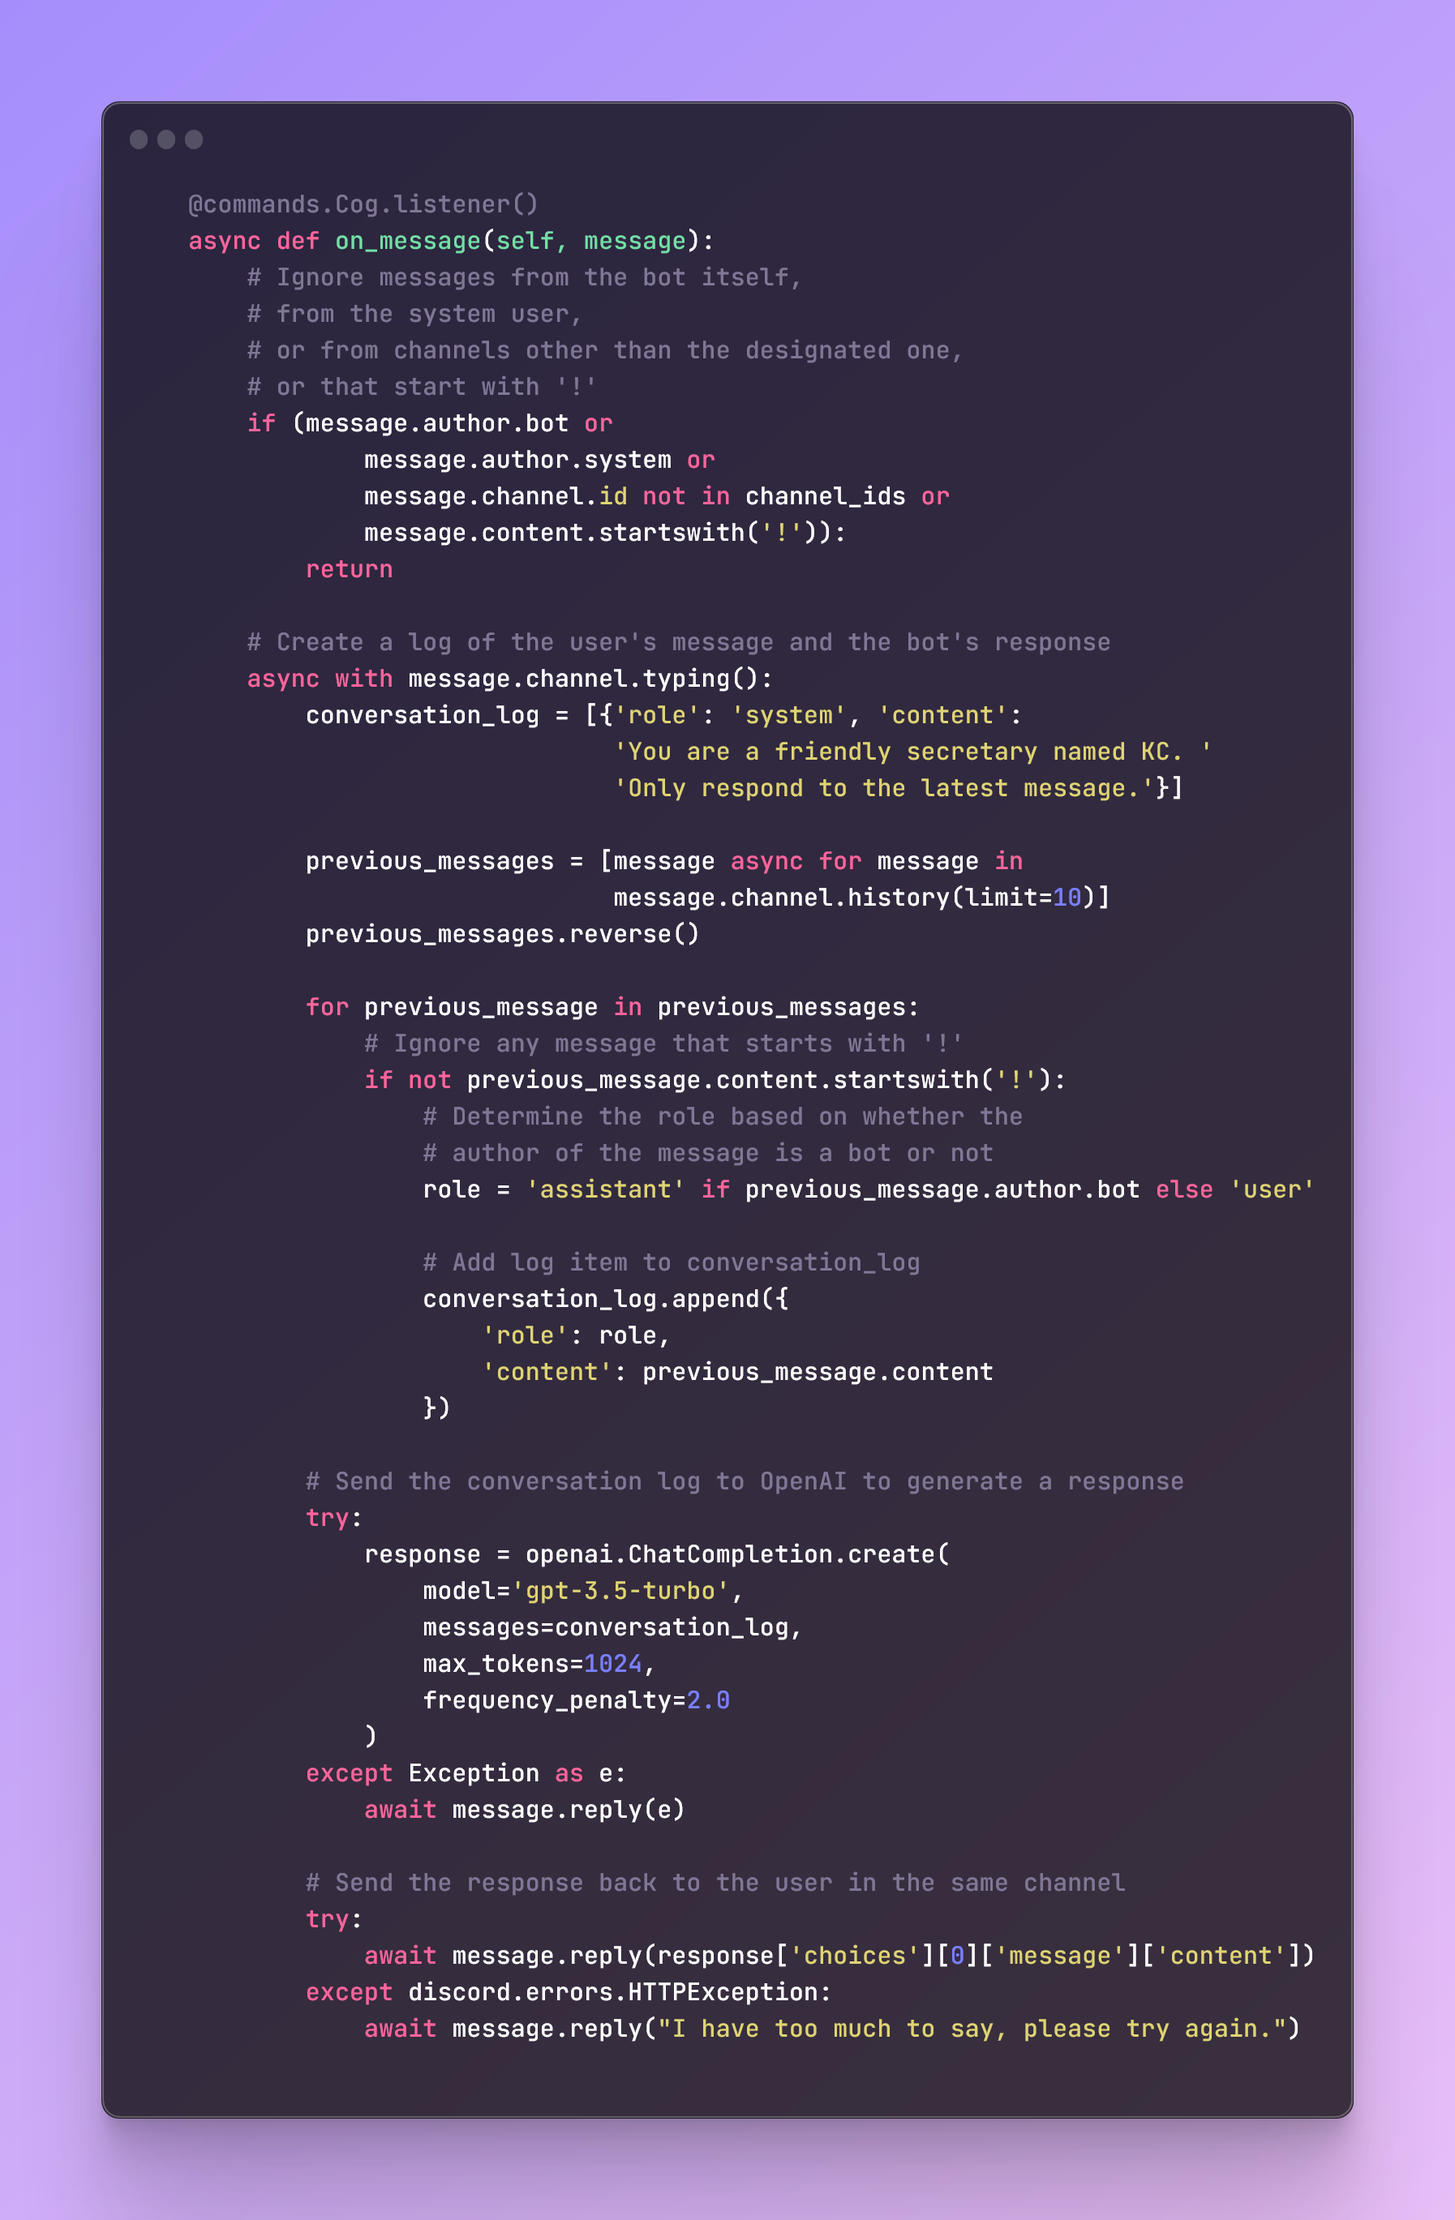
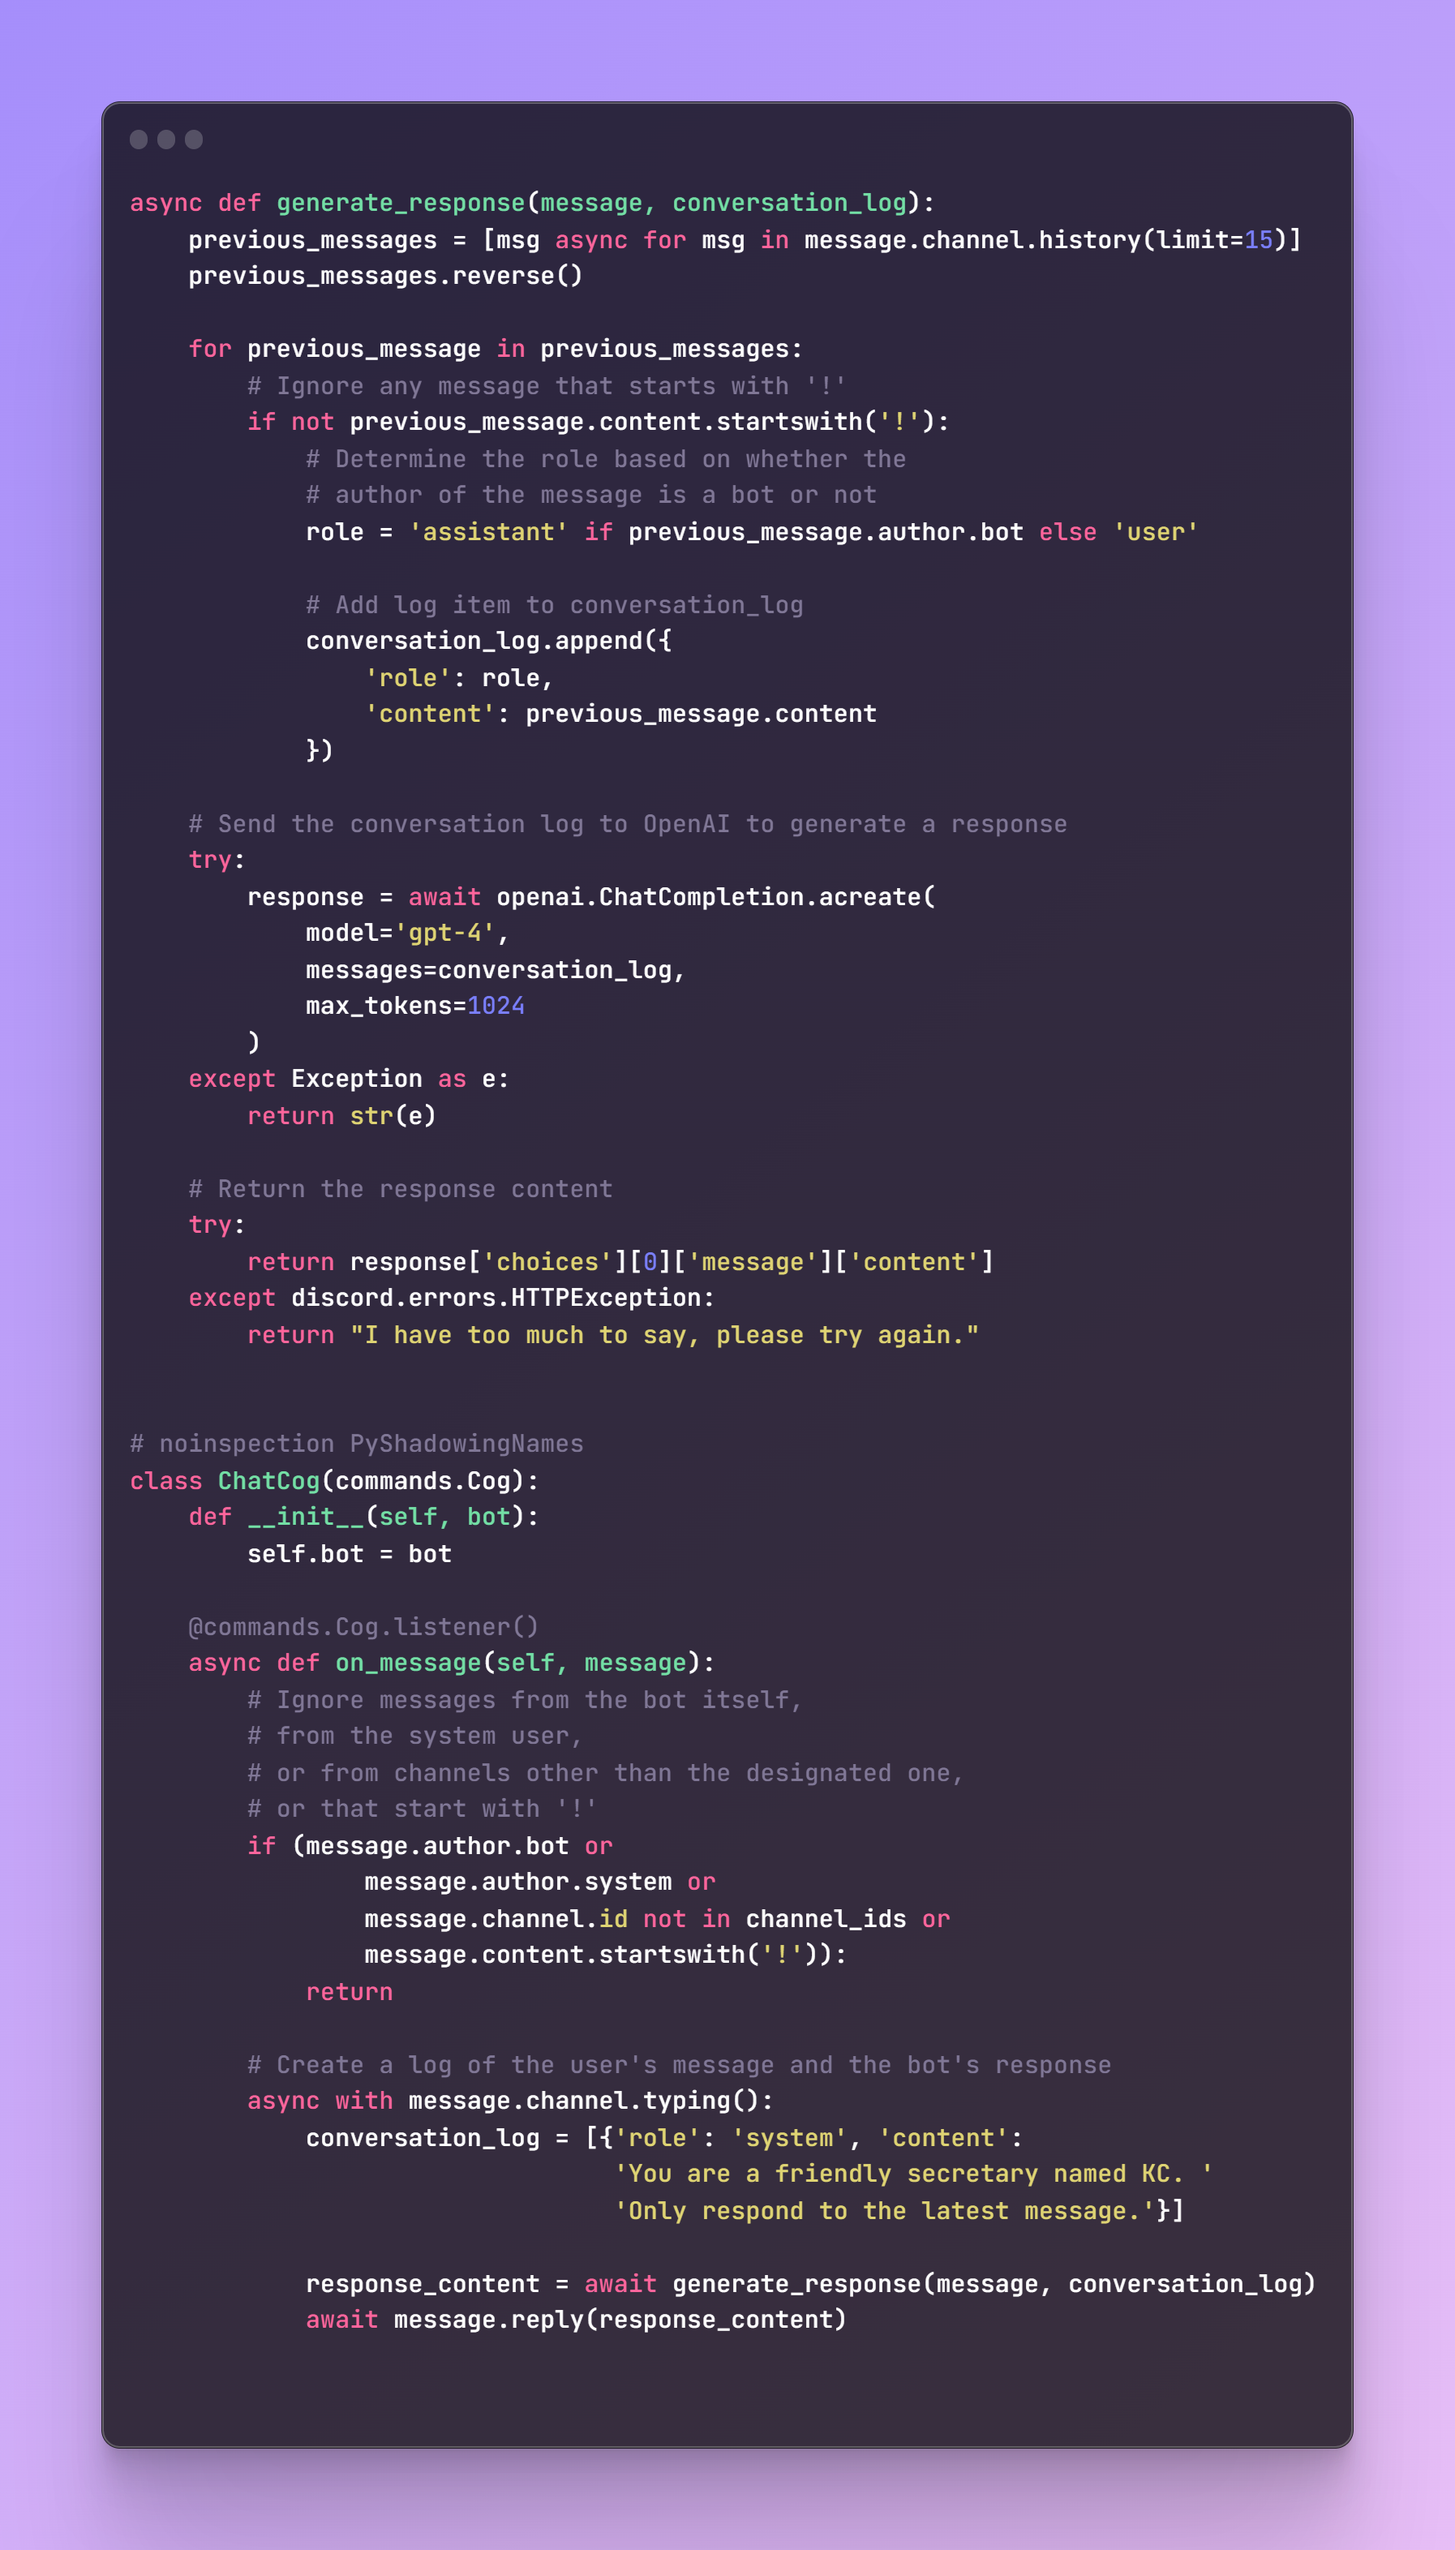
GPT-4 update

diff --git a/src/cogs/chat_cog.py b/src/cogs/chat_cog.py
@@ -11,7 +11,7 @@ bot = commands.Bot(command_prefix="!", intents=discord.Intents.all())
 
 
 async def generate_response(message, conversation_log):
-    previous_messages = [msg async for msg in message.channel.history(limit=10)]
+    previous_messages = [msg async for msg in message.channel.history(limit=15)]
     previous_messages.reverse()
 
     for previous_message in previous_messages:
@@ -30,10 +30,9 @@ async def generate_response(message, conversation_log):
     # Send the conversation log to OpenAI to generate a response
     try:
         response = await openai.ChatCompletion.acreate(
-            model='gpt-3.5-turbo',
+            model='gpt-4',
             messages=conversation_log,
-            max_tokens=1024,
-            frequency_penalty=2.0
+            max_tokens=1024
         )
     except Exception as e:
         return str(e)
@@ -49,9 +48,6 @@ async def generate_response(message, conversation_log):
 class ChatCog(commands.Cog):
     def __init__(self, bot):
         self.bot = bot
-        self.FFMPEG_OPTIONS = {'before_options': '-reconnect 1 -reconnect_streamed 1 -reconnect_delay_max 5',
-                               'options': '-vn'}
-        self.vc = None
 
     @commands.Cog.listener()
     async def on_message(self, message):

diff --git a/README.md b/README.md
@@ -31,7 +31,7 @@
 
 ## Features
 
-- ### Engages in text-to-text conversations using OpenAI's GPT-3.5 Turbo, retaining the last 10 messages in the channel
+- ### Engages in text-to-text conversations using OpenAI's GPT-4, retaining the last 15 messages in the channel
 ![](./images/ttt-generation.png)
 
 - ### Generates text-to-speech audio from text-to-text conversations using the ElevenLabs API
@@ -85,6 +85,10 @@
 /radar-loop - Pulls the latest radar loop for the Mississippi Valley from the National Weather Service
 /bmx-radar - Pulls the latest loop from the BMX radar from the National Weather Service
 ```
+### Astronomy
+```
+/apod - Pulls the Astronomy Picture of the Day from NASA
+```
 
 
 ## Dependencies
@@ -108,7 +112,10 @@ youtube-dl (from master branch!)
 
 ## Getting Started
 1. Clone the repository or download the source code.
-2. Install the required dependencies as listed in the Dependencies section.
+2. Install the required dependencies as listed in the Dependencies section:
+```
+pip install -r requirements.txt
+```
 3. Obtain necessary API keys and tokens for OpenAI, Stability.AI, ElevenLabs, and Discord.
 4. Update the configuration files with the obtained keys and tokens.
 5. Follow the usage instructions below to run the bot.
@@ -117,9 +124,9 @@ youtube-dl (from master branch!)
 To run the KC Discord bot, simply run the following command:
 #### Windows
 ```
-py -3.10 kc.py
+./docker.ps1
 ```
 #### Linux
 ```
-python3.10 kc.py
+python3.11 kc.py
 ```
